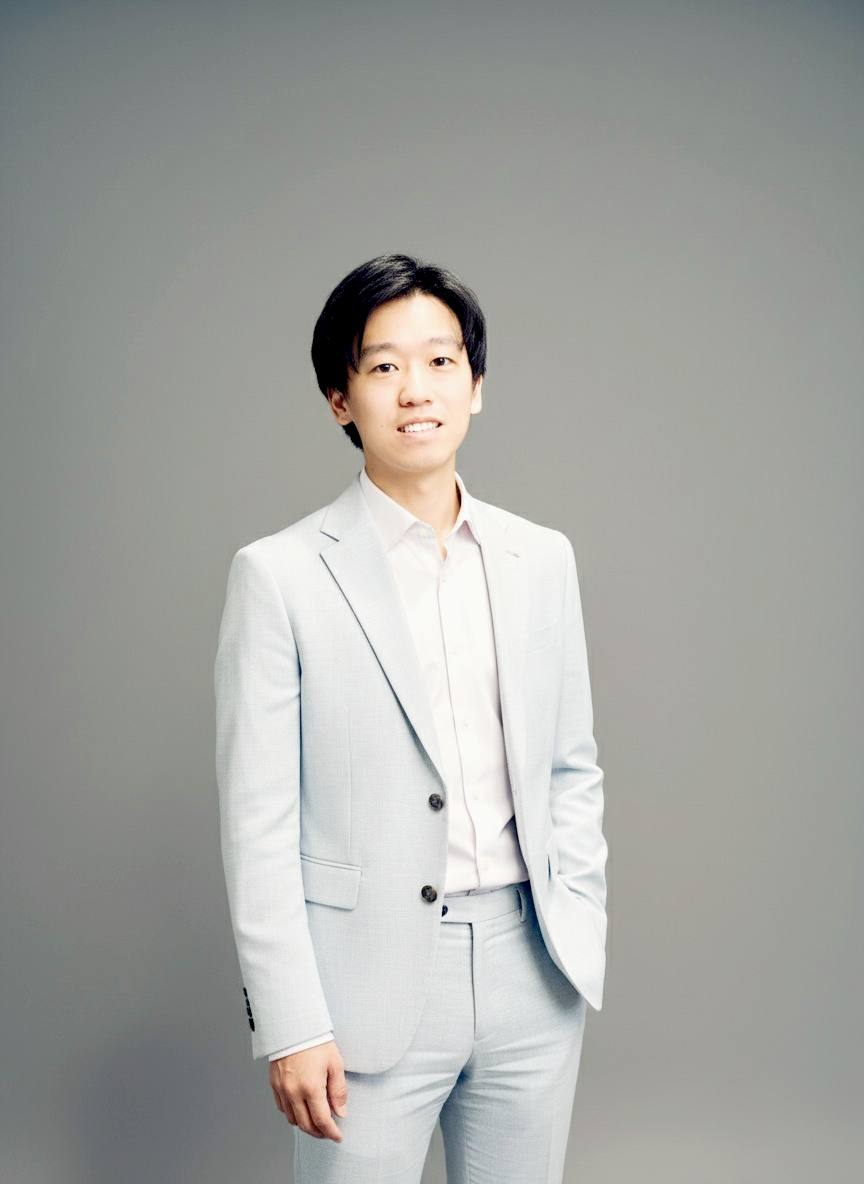
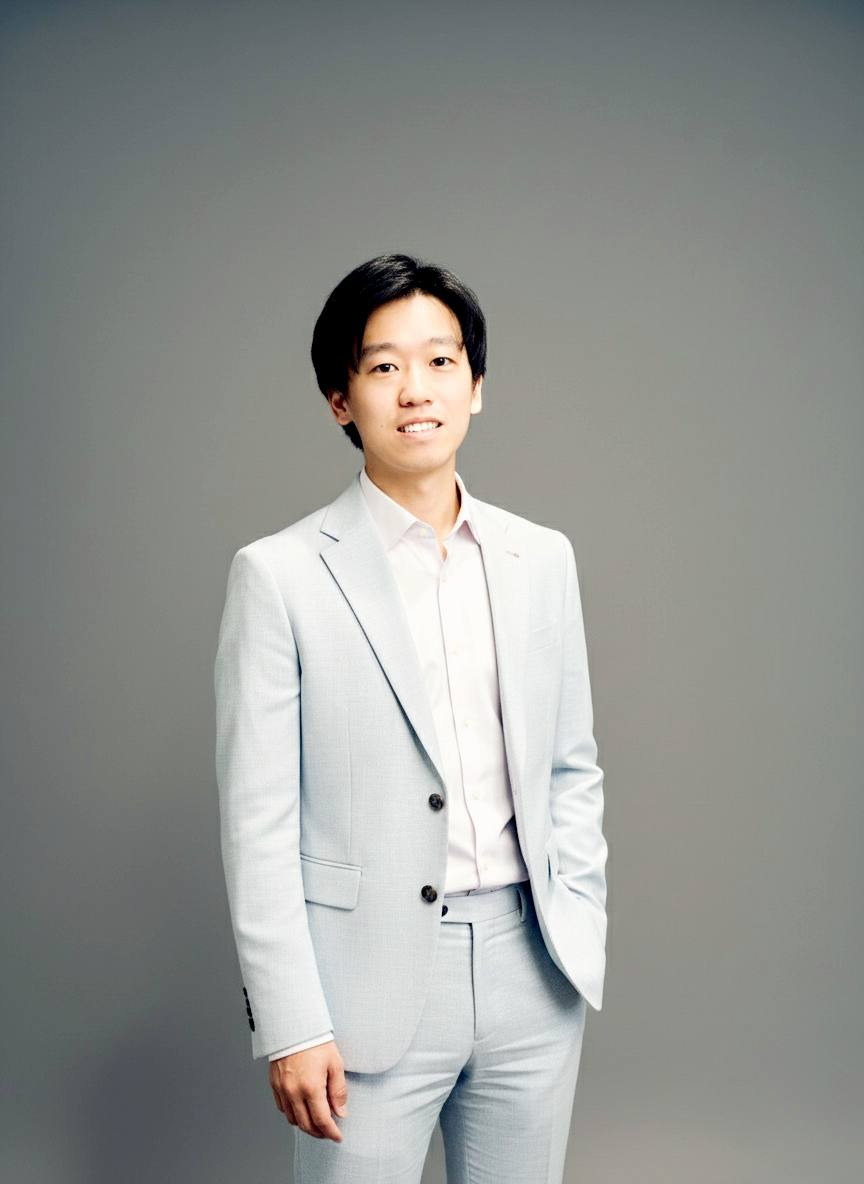
開場改用 UCI 會場照，並把調色拉回來
調色太淡
  原本對齊參考站的黑點 52、飽和 0.090，套在這批照片上偏灰。
  改為黑點 26、白點 250、中位 158、飽和 0.140。
  實測飽和度由 0.045–0.120 回到 0.061–0.170，霧面感保留但有了厚度。

開場突兀的根因是色塊衝突
  棚拍照灰底 #898E8B、亮度 140、偏冷；左半底色 #F4EFE7、亮度 240、偏暖。
  一塊中灰硬接一塊近白，接縫必然刺眼。參考站的主視覺背景本身接近白
  （中位亮度 213），起點就不同。

改用 ISLS 2026 於 UC Irvine 的會場照做滿版開場
  這張是橫幅 8064×6048，寬度足夠真正做滿版；棚拍照是 3:4 直式，
  只能切成左右兩塊，才會出現接縫。
  構圖也對得上：人在右側、左邊是長椅與開闊空間，姓名壓在左下。

  左側各區亮度 126–178、標準差 51–75，沒有一塊均勻，
  白字直接壓上去會斷續，因此加一層由左往右淡出的暗色遮罩，
  白字對比實測 5.0–7.1:1。

  頁首在開場圖上時轉白，捲離後恢復並轉為半透明白底。

其他
  棚拍形象照移到關於頁自述區右側，正式頭像的位置。
  側記區的橫幅移除，避免與開場重複，只留三張旅行照。
  hero.jpg 壓到 2000×1500、366 KB。

diff --git a/assets/style.css b/assets/style.css
@@ -75,8 +75,8 @@ strong,b{font-weight:400}
   font-family:var(--f-display);font-size:13px;letter-spacing:.34em;
   color:var(--ink);white-space:nowrap;text-transform:uppercase;
 }
-.site-head.over .brand,.site-head.over .burger span{color:var(--white);background-color:var(--white)}
 .site-head.over .brand{color:var(--white)}
+.site-head.over .burger span{background:var(--white)}
 
 .burger{
   width:30px;height:18px;border:0;background:transparent;padding:0;cursor:pointer;
@@ -124,41 +124,64 @@ body.menu-open .menu-list a:nth-child(7){transition-delay:.46s}
 .menu-side a:hover{color:var(--ink)}
 @media (max-width:760px){.menu-in{grid-template-columns:1fr}.menu-side{text-align:left;margin-top:2rem}}
 
-/* ---------- 全幅開場 ---------- */
-.hero{position:relative;min-height:100svh;display:grid;grid-template-columns:1fr 1fr;background:var(--sand-soft)}
-.hero-photo{position:relative;overflow:hidden}
-.hero-photo img{width:100%;height:100%;object-fit:cover;object-position:50% 22%}
-.hero-text{
-  display:flex;flex-direction:column;justify-content:flex-end;
-  padding:0 clamp(1.5rem,5vw,4.5rem) clamp(3.5rem,12vh,7rem);
+/* ---------- 全幅開場：單張橫幅，姓名壓在左下 ---------- */
+.hero{position:relative;min-height:100svh;overflow:hidden;background:#2E3033}
+.hero-img{
+  position:absolute;inset:0;width:100%;height:100%;
+  object-fit:cover;object-position:64% 44%;
+}
+/* 由左往右淡出的暗色遮罩。左側各區亮度 126–178、標準差 51–75，
+   沒有一塊均勻，沒有遮罩白字會斷續。加上後白字對比 5.0–7.1:1。 */
+.hero::after{
+  content:"";position:absolute;inset:0;pointer-events:none;
+  background:linear-gradient(100deg,
+    rgba(26,28,31,.62) 0%, rgba(26,28,31,.40) 34%,
+    rgba(26,28,31,.12) 62%, rgba(26,28,31,0) 88%);
+}
+.hero-inner{
+  position:relative;z-index:2;min-height:100svh;display:flex;flex-direction:column;
+  justify-content:flex-end;padding:0 var(--pad) clamp(4rem,14vh,8rem);
+  max-width:var(--maxw);margin:0 auto;
 }
 .hero-name{
-  font-family:var(--f-display);font-size:clamp(2rem,5.6vw,3.9rem);font-weight:400;
-  letter-spacing:.26em;line-height:1.3;margin:0;text-transform:uppercase;color:var(--ink);
+  font-family:var(--f-display);font-size:clamp(2.1rem,6vw,4.2rem);font-weight:400;
+  letter-spacing:.26em;line-height:1.25;margin:0;text-transform:uppercase;color:#fff;
 }
-.hero-zh{
-  font-size:clamp(1.05rem,2.2vw,1.5rem);letter-spacing:.5em;color:var(--ink);
-  margin-top:1.1rem;
-}
+.hero-zh{font-size:clamp(1rem,2.2vw,1.45rem);letter-spacing:.5em;color:rgba(255,255,255,.94);margin-top:1.1rem}
 .hero-role{
-  font-size:12px;letter-spacing:.28em;color:var(--ink-muted);margin-top:2.2rem;
+  font-size:12px;letter-spacing:.26em;color:rgba(255,255,255,.78);margin-top:2rem;
   text-transform:uppercase;line-height:2.4;
 }
+.hero-cap{
+  position:absolute;right:var(--pad);bottom:clamp(1.4rem,4vh,2.4rem);z-index:2;
+  font-family:var(--f-display);font-size:10px;letter-spacing:.24em;
+  color:rgba(255,255,255,.62);text-transform:uppercase;text-align:right;
+}
 .hero-scroll{
-  position:absolute;left:50%;bottom:2rem;transform:translateX(-50%);z-index:3;
-  font-size:10px;letter-spacing:.3em;color:var(--ink-muted);text-transform:uppercase;
-  display:flex;flex-direction:column;align-items:center;gap:.7rem;
+  position:absolute;left:var(--pad);bottom:clamp(1.4rem,4vh,2.4rem);transform:none;z-index:3;
+  font-size:10px;letter-spacing:.3em;color:rgba(255,255,255,.7);text-transform:uppercase;
+  display:flex;align-items:center;gap:.9rem;
 }
-.hero-scroll::after{content:"";width:1px;height:40px;background:var(--ink-muted);opacity:.5;
-  animation:drop 2.4s cubic-bezier(.6,0,.2,1) infinite}
-@keyframes drop{0%{transform:scaleY(0);transform-origin:top}45%{transform:scaleY(1);transform-origin:top}
-                55%{transform:scaleY(1);transform-origin:bottom}100%{transform:scaleY(0);transform-origin:bottom}}
-@media (max-width:820px){
-  .hero{grid-template-columns:1fr;min-height:auto}
-  .hero-photo{aspect-ratio:4/5}
-  .hero-text{padding:clamp(2.2rem,7vh,3.5rem) var(--pad) clamp(3rem,9vh,4.5rem)}
-  .hero-scroll{display:none}
+.hero-scroll::after{content:"";width:46px;height:1px;background:rgba(255,255,255,.55);
+  animation:sweep 2.6s cubic-bezier(.6,0,.2,1) infinite}
+@keyframes sweep{0%{transform:scaleX(0);transform-origin:left}45%{transform:scaleX(1);transform-origin:left}
+                 55%{transform:scaleX(1);transform-origin:right}100%{transform:scaleX(0);transform-origin:right}}
+@media (max-width:760px){
+  .hero-img{object-position:66% 42%}
+  .hero-inner{padding-bottom:clamp(5rem,18vh,7rem)}
+  .hero-cap{display:none}
 }
+
+/* 關於頁的側身形象照 */
+.about-portrait{
+  float:right;width:clamp(150px,26%,230px);margin:.4rem 0 1.6rem clamp(1.4rem,4vw,2.6rem);
+}
+.about-portrait img{width:100%;aspect-ratio:3/4;object-fit:cover;object-position:50% 18%}
+.about-portrait figcaption{
+  margin-top:.9rem;font-family:var(--f-display);font-size:10px;letter-spacing:.24em;
+  color:var(--ink-muted);text-transform:uppercase;
+}
+@media (max-width:620px){.about-portrait{float:none;width:170px;margin:0 0 1.8rem}}
 
 /* ---------- 一般頁首 ---------- */
 .page-head{padding:clamp(7rem,18vh,11rem) 0 clamp(2.5rem,7vh,4rem);text-align:center}

diff --git a/about.html b/about.html
@@ -51,6 +51,10 @@
   <div class="wrap">
     <div class="sec-head rise"><h2>Profile<span class="zh">自述</span></h2></div>
     <div class="prose rise">
+      <figure class="about-portrait">
+        <img src="assets/portrait.jpg" alt="陳奕安" width="864" height="1184" loading="lazy">
+        <figcaption>Chen Yi-An</figcaption>
+      </figure>
       <p class="lead">研究教師社群怎麼把<span class="hl">經驗變成知識</span>。現成的工具量不到這件事，所以我自己寫系統，把知識翻新理論變成可計算的指標。</p>
       <p>這個問題來自我自己參與教師社群與課程共備的經驗：老師們談得很熱烈，卻很難把實踐智慧說成可傳遞、可累積的專業知識。教師專業學習社群常停在交換教材與技巧，很少進到概念層次的重構。</p>
       <p>教學是研究的另一半。我把課堂當成研究場域，也把研究結果拿回課堂修正。開授的課以知識翻新十二原則搭配專題導向學習設計，每週要求學生放下 AI 工具、用自己的想法回答結構化提問；一學期累積下來的貼文，同時是教學紀錄與研究語料。</p>
@@ -116,16 +120,12 @@
 <section>
   <div class="wrap">
     <div class="sec-head rise"><h2>Gallery<span class="zh">側記</span></h2></div>
-    <figure class="gallery-lead rise">
-      <img src="assets/gallery-lead.jpg" alt="ISLS 2026 年會會場，加州大學爾灣分校" width="1600" height="1200" loading="lazy">
-      <figcaption>ISLS Annual Meeting 2026 · UC Irvine</figcaption>
-    </figure>
     <div class="gallery rise">
       <figure><img src="assets/gallery-1.jpg" alt="海邊" width="900" height="1200" loading="lazy"></figure>
       <figure><img src="assets/gallery-2.jpg" alt="遮陽傘下" width="900" height="1200" loading="lazy"></figure>
       <figure><img src="assets/gallery-3.jpg" alt="街角" width="900" height="1200" loading="lazy"></figure>
     </div>
-    <p class="gallery-note rise">上圖是 ISLS 年會的會場。下面三張是研究以外的時間，走走看看，換個地方想事情。</p>
+    <p class="gallery-note rise">研究以外的時間。走走看看，換個地方想事情。</p>
   </div>
 </section>
 

diff --git a/index.html b/index.html
@@ -41,10 +41,8 @@
 
 <main>
 <section class="hero">
-  <div class="hero-photo">
-    <img src="assets/portrait.jpg" alt="陳奕安" width="656" height="900">
-  </div>
-  <div class="hero-text">
+  <img class="hero-img" src="assets/hero.jpg" alt="陳奕安於 ISLS 2026 年會會場，加州大學爾灣分校" width="2000" height="1500">
+  <div class="hero-inner">
     <h1 class="hero-name">Chen Yi-An</h1>
     <p class="hero-zh">陳奕安</p>
     <p class="hero-role">
@@ -54,6 +52,7 @@
     </p>
   </div>
   <div class="hero-scroll">Scroll</div>
+  <div class="hero-cap">ISLS Annual Meeting 2026<br>UC Irvine</div>
 </section>
 
 <section>

diff --git a/assets/site.js b/assets/site.js
@@ -30,7 +30,9 @@
     var hero = document.querySelector('.hero');
     function onScroll() {
       var limit = hero ? hero.offsetHeight - 80 : 40;
-      head.classList.toggle('solid', scrollY > limit);
+      var past = scrollY > limit;
+      head.classList.toggle('solid', past);
+      head.classList.toggle('over', !!hero && !past);   // 壓在開場圖上時轉白
     }
     onScroll();
     addEventListener('scroll', onScroll, { passive: true });

diff --git a/README.md b/README.md
@@ -36,11 +36,12 @@
 - 總覽頁的 build-on 網絡以力導向布局計算後靜態繪出，滑過節點可只看該成員的連結
 - 圖表資料放在 `assets/data.js`，取自 Knowledge Forum 的實際匯出，社群成員一律匿名為 P01–P21
 
-## 形象照
+## 照片
 
-首頁開場讀取 `assets/portrait.jpg`（656×900，3:4 直式），佔右半幅。裁切位置由 CSS 的 `object-position` 控制。
-
-關於頁末的側記區另有四張：`gallery-lead.jpg`（16:9 橫幅）與 `gallery-1` 到 `gallery-3`（3:4 直式，交錯排列）。
+- `hero.jpg`（2000×1500）首頁滿版開場，ISLS 2026 於 UC Irvine 的會場照。
+  人在右側、左邊開闊，姓名壓在左下，構圖比照參考站。
+- `portrait.jpg`（864×1184）棚拍形象照，置於關於頁自述區右側。
+- `gallery-1` 到 `gallery-3`（3:4 直式）關於頁末的側記，交錯排列。
 
 ## 照片調色
 
@@ -51,9 +52,9 @@
 `tools/grade.py` 是調色程式。每張先正規化再對齊目標，避免固定參數套在起點不同的原檔上失準：
 
 1. 自動色階，把 0.5% 與 99.5% 拉到兩端
-2. 以 gamma 把中位亮度推到 179
-3. 錨定黑白點到 52 / 247
-4. 二分法解飽和倍率至 0.090，**只降不升**——低彩度的棚拍硬推只會讓膚色失真
+2. 以 gamma 把中位亮度推到 158
+3. 錨定黑白點到 26 / 250
+4. 二分法解飽和倍率至 0.140，**只降不升**——低彩度的棚拍硬推只會讓膚色失真
 5. 中間調微暖、極輕柔光
 
 重新調色：
